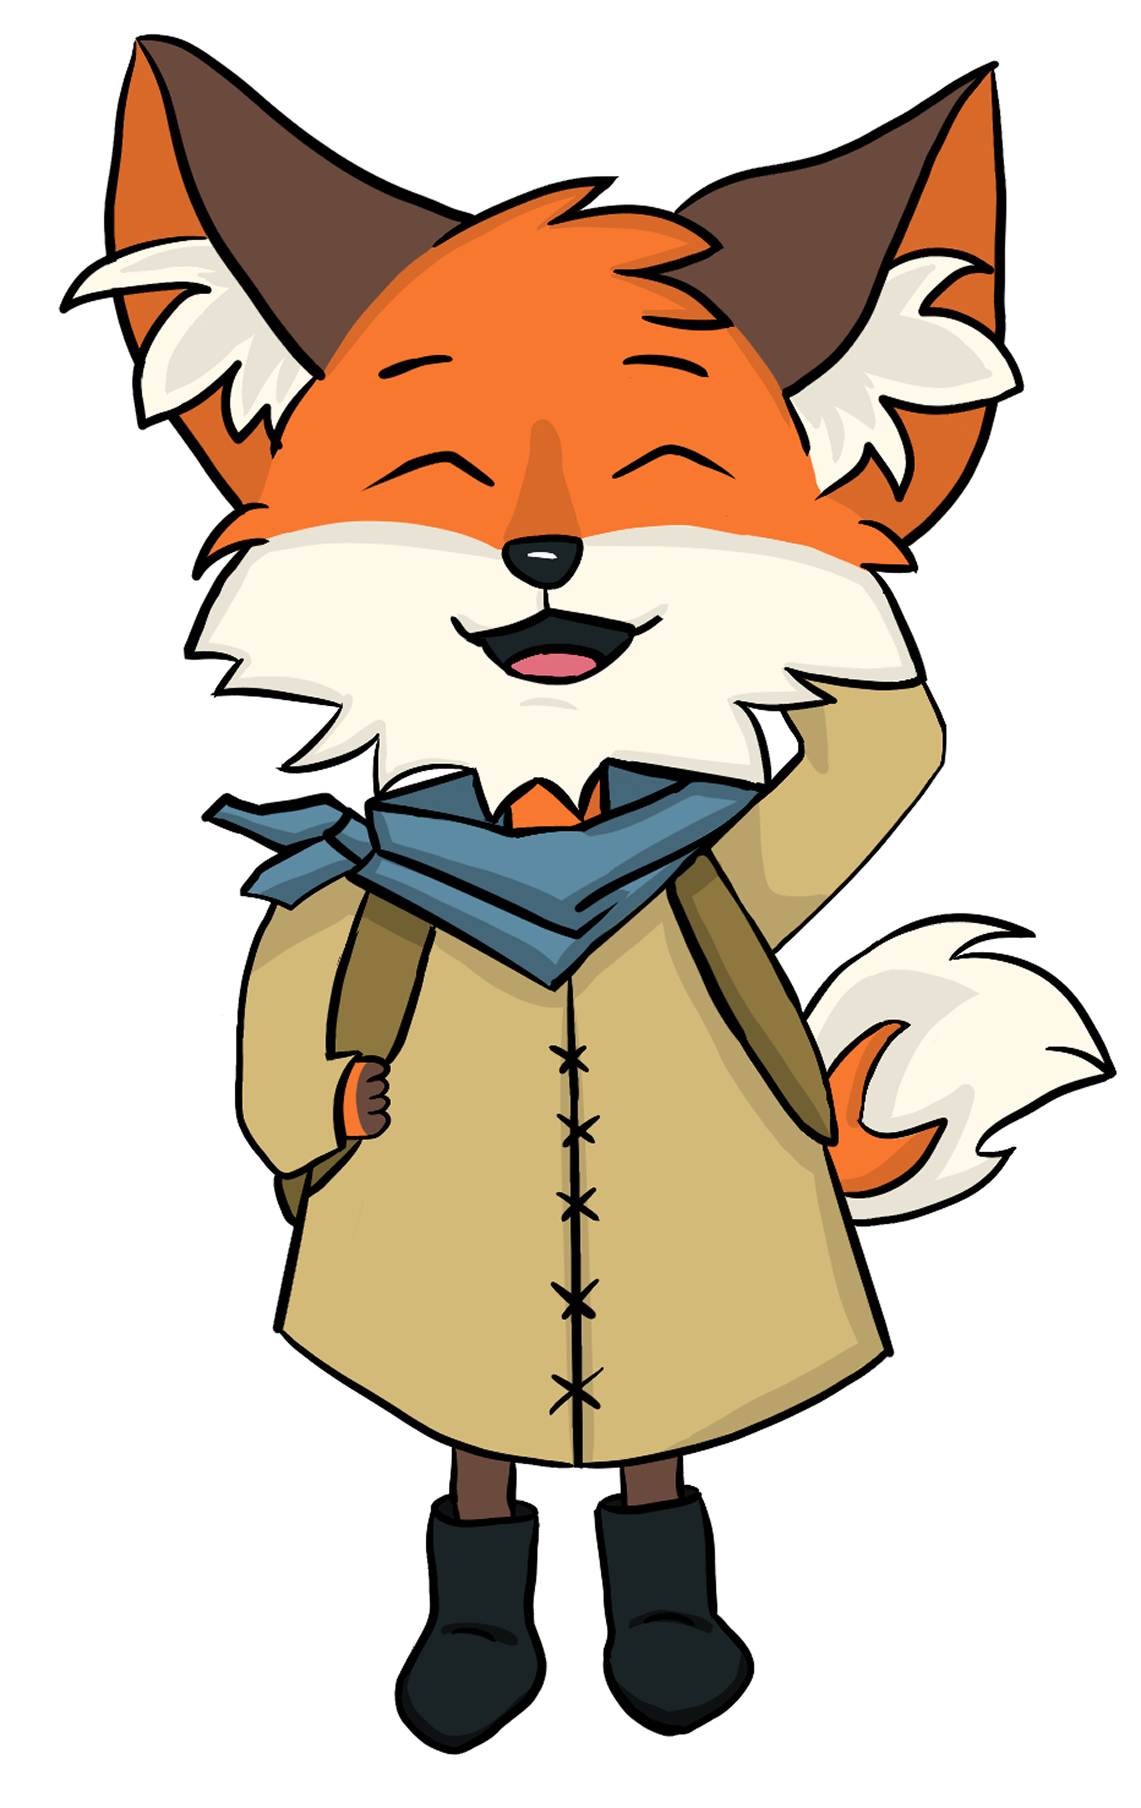
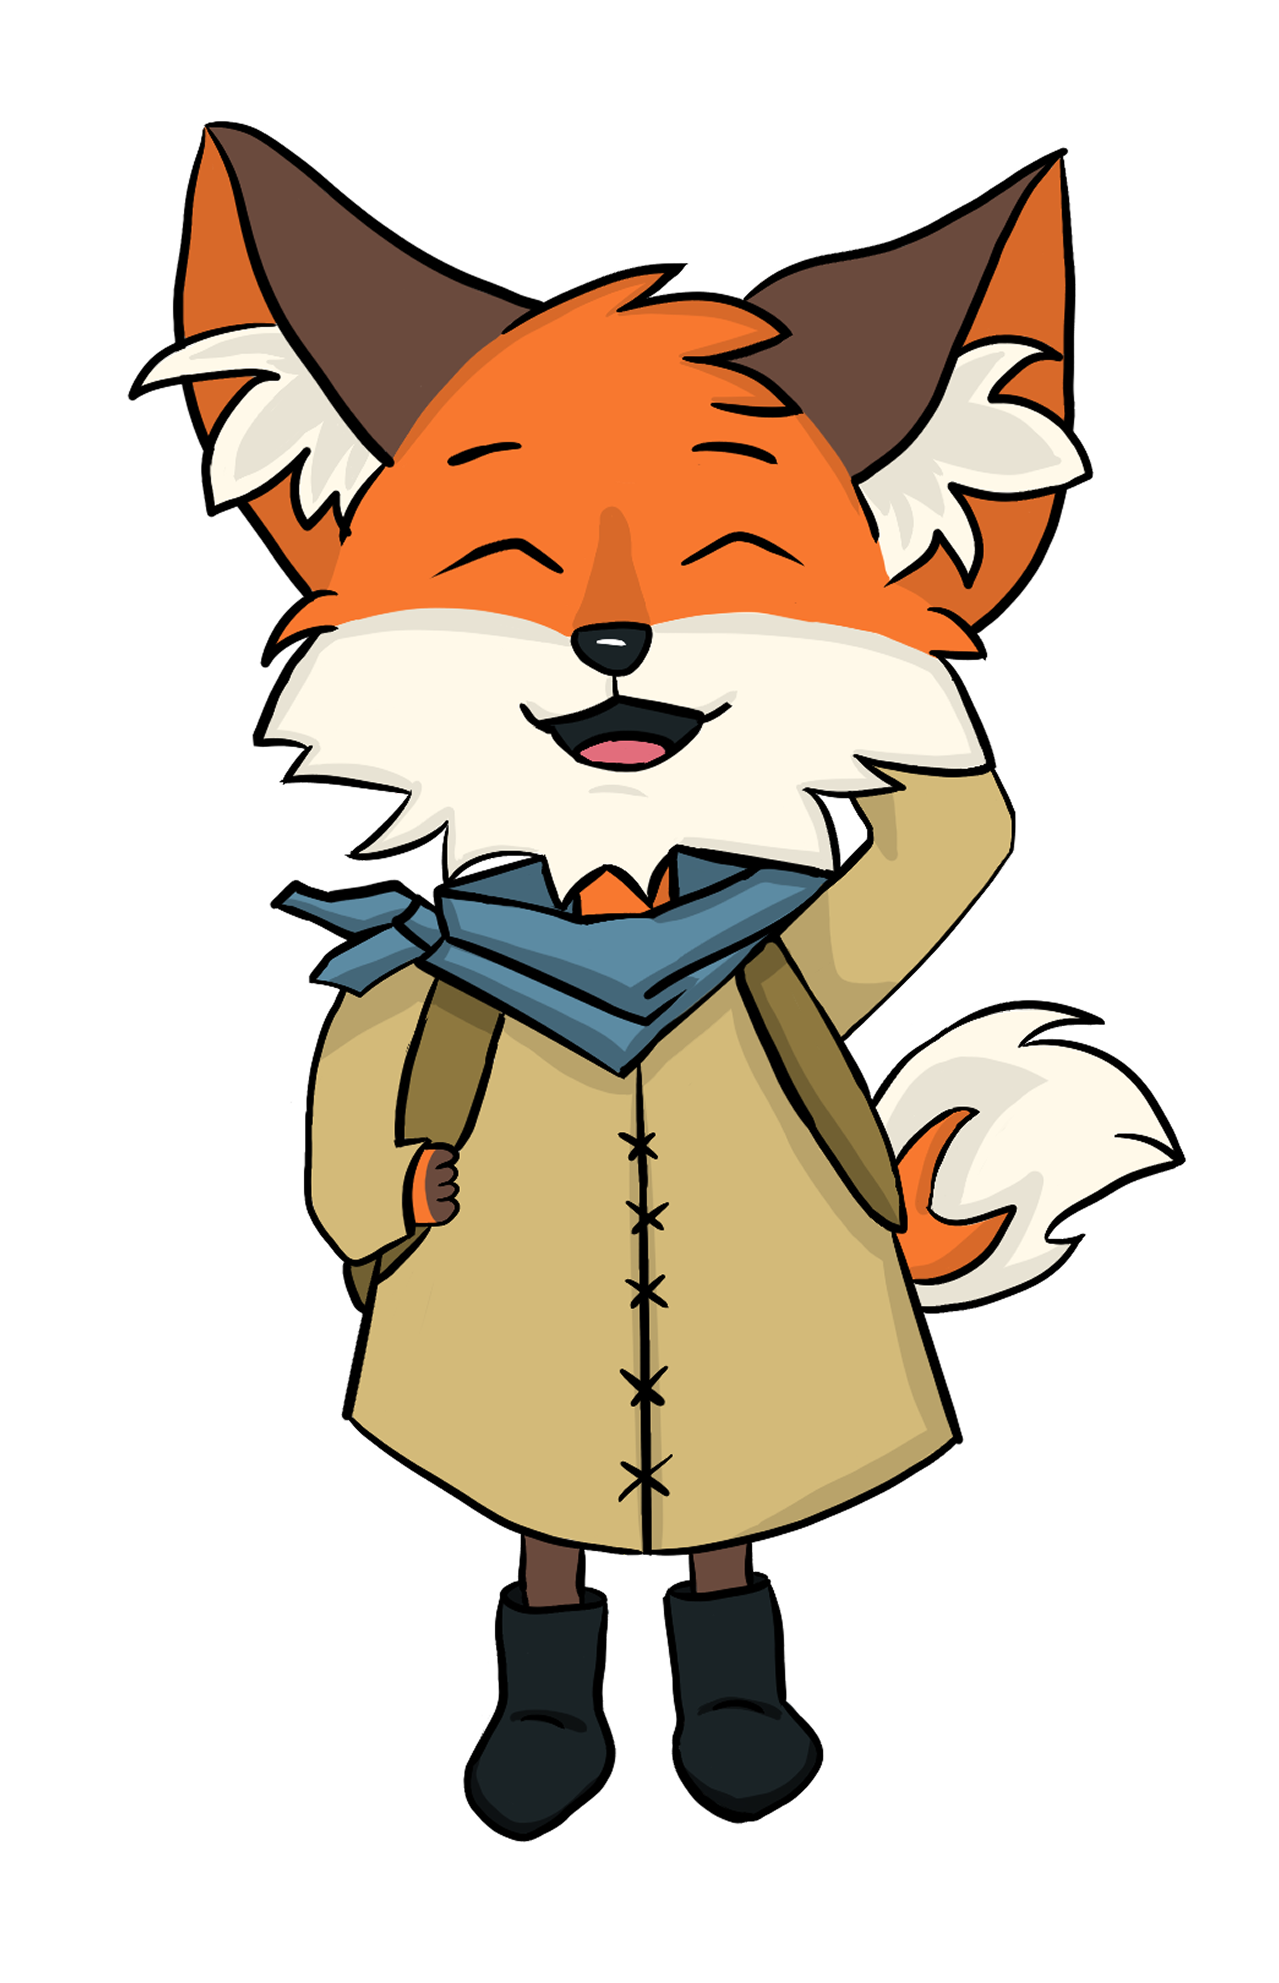
Image Fix

Changed region(s): [[0.0307, 0.0, 0.9816, 0.9912]]

diff --git a/src/app/(pages)/first-task/page.js b/src/app/(pages)/first-task/page.js
@@ -13,37 +13,37 @@ export default function NarrativePage() {
     // Before here, there should be some effects looks like interrupted from something.
       characterName: 'Fen',
       paragraphText: 'There’s not much time, so I’ll make this quick: To prevent your world from reliving the past, you must find the first clue.',
-      bgImage: '/bc-1.png',
+      bgImage: '/bc-rb.png',
       characterImageSrc: '/fen/fen-uu.png',
     },
     {
       characterName: 'Fen',
       paragraphText: 'Your first mission involves finding the location on campus that fulfills this tricky riddle: ',
-      bgImage: '/bc-1.png',
+      bgImage: '/bc-rb.png',
       characterImageSrc: '/fen/fen-e.png',
     },
     {
       characterName: 'Fen',
       paragraphText: '“I hold many worlds yet never leave my place. Pages turn within me, but I never show my face. What am I?”',
-      bgImage: '/bc-1.png',
+      bgImage: '/bc-rb.png',
       characterImageSrc: '/fen/fen-e.png',
     },
     {
       characterName: 'Fen',
       paragraphText: 'Once you’ve determined the location, head there and begin searching for Instagram @account_names.',
-      bgImage: '/bc-1.png',
+      bgImage: '/bc-rb.png',
       characterImageSrc: '/fen/fen-d.png',
     },
     {
       characterName: 'Fen',
       paragraphText: ' Then, explore them on your personal device to determine which amongst the fake news is real. With each account found, you’ll be one step closer to saving your world. Best of luck!',
-      bgImage: '/bc-1.png',
+      bgImage: '/bc-rb.png',
       characterImageSrc: '/fen/fen-e.png',
     },
     {
       characterName: 'Fen',
       paragraphText: ' Then, explore them on your personal device to determine which amongst the fake news is real. With each account found, you’ll be one step closer to saving your world. Best of luck!',
-      bgImage: '/bc-1.png',
+      bgImage: '/bc-rb.png',
       characterImageSrc: '/fen/fen-e.png',
     },
   ]

diff --git a/src/app/(pages)/second-task/page.js b/src/app/(pages)/second-task/page.js
@@ -13,25 +13,25 @@ export default function NarrativePage() {
     // Before here, there should be some effects looks like interrupted from something.
       characterName: 'Fen',
       paragraphText: 'Congratulations! You’ve identified the real news source. Keep in mind moving forward, that not everything is as it seems....',
-      bgImage: '/bc-1.png',
+      bgImage: '/bc-l.png',
       characterImageSrc: '/fen/fen-c.png',
     },
     {
       characterName: 'Fen',
       paragraphText: 'Now, you must find the next on-campus location using this hint: ',
-      bgImage: '/bc-1.png',
+      bgImage: '/bc-l.png',
       characterImageSrc: '/fen/fen-d.png',
     },
     {
       characterName: 'Fen',
       paragraphText: ' "I’m a path that’s painted bright, With walls that tell stories through art and light. Every step you take, a new scene unfolds, But stay too long, and the pictures grow cold. What am I?"',
-      bgImage: '/bc-1.png',
+      bgImage: '/bc-l.png',
       characterImageSrc: '/fen/fen-e.png',
     },
     {
       characterName: 'Fen',
       paragraphText: ' "I’m a path that’s painted bright, With walls that tell stories through art and light. Every step you take, a new scene unfolds, But stay too long, and the pictures grow cold. What am I?"',
-      bgImage: '/bc-1.png',
+      bgImage: '/bc-l.png',
       characterImageSrc: '/fen/fen-e.png',
     },
   ]

diff --git a/src/app/(pages)/fourth-task/page.js b/src/app/(pages)/fourth-task/page.js
@@ -13,25 +13,25 @@ export default function NarrativePage() {
     // Before here, there should be some effects looks like interrupted from something.
       characterName: 'Fen',
       paragraphText: 'Great job! You’ve succeeded in temporarily restoring the balance, and seen a glimpse of how balance can ....',
-      bgImage: '/bc-1.png',
+      bgImage: '/bc-c.png',
       characterImageSrc: '/fen/fen-e.png',
     },
     {
       characterName: 'Fen',
       paragraphText: 'Oh no.... we’re breaking up....',
-      bgImage: '/bc-1.png',
+      bgImage: '/bc-c.png',
       characterImageSrc: '/fen/fen-s.png',
     },
     {
       characterName: 'Fen',
       paragraphText: 'The shadow... the Enigma.... It’s here... There’s not much time... Remember everything you’ve learned thus far... Head to the entrance of the forest behind the college... ',
-      bgImage: '/bc-1.png',
+      bgImage: '/bc-c.png',
       characterImageSrc: '/fen/fen-uu.png',
     },
     {
       characterName: 'Fen',
       paragraphText: 'The shadow... the Enigma.... It’s here... There’s not much time... Remember everything you’ve learned thus far... Head to the entrance of the forest behind the college... ',
-      bgImage: '/bc-1.png',
+      bgImage: '/bc-c.png',
       characterImageSrc: '/fen/fen-uu.png',
     },
   ]

diff --git a/src/app/(pages)/second-task/completed/page.js b/src/app/(pages)/second-task/completed/page.js
@@ -13,13 +13,13 @@ export default function NarrativePage() {
     // Before here, there should be some effects looks like interrupted from something.
       characterName: 'Fen',
       paragraphText: 'Excellent work! You’ve discovered the correct translation. In turn, you now know what fate this darkness will unleash upon your world. ',
-      bgImage: '/bc-1.png',
+      bgImage: '/bc-p.png',
       characterImageSrc: '/fen/fen-thumb.png',
     },
     {
       characterName: 'Fen',
       paragraphText: 'To continue your efforts to prevent your world from experiencing the same end as mine, head to the cafeteria and locate a QR code.',
-      bgImage: '/bc-1.png',
+      bgImage: '/bc-p.png',
       characterImageSrc: '/fen/fen-d.png',
     },
   ]

diff --git a/src/app/(pages)/second-task/pink-hallway/page.js b/src/app/(pages)/second-task/pink-hallway/page.js
@@ -13,13 +13,13 @@ export default function NarrativePage() {
     // Before here, there should be some effects looks like interrupted from something.
       characterName: 'Fen',
       paragraphText: 'In this hallway, there are several hidden multi-linguistic clues. But which is the right one?',
-      bgImage: '/bc-1.png',
+      bgImage: '/bc-p.png',
       characterImageSrc: '/fen/fen-e.png',
     },
     {
       characterName: 'Fen',
       paragraphText: 'With your help, this next task involves translating and determining which phrase is the direct translation of the word: “Koyaanisqatsi”.',
-      bgImage: '/bc-1.png',
+      bgImage: '/bc-p.png',
       characterImageSrc: '/fen/fen-c.png',
     },
   ]

diff --git a/src/components/template.js b/src/components/template.js
@@ -20,11 +20,11 @@ export default function Template({
           {/* Character Image - Dynamic based on characterName */}
           {characterImageSrc && (
             <Image
-              className="absolute bottom-52"
+              className="absolute bottom-48 char-img"
               src={characterImageSrc}
               alt={characterName}
-              width={230}
-              height={230}
+              width={270}
+              height={270}
             />
           )}
 

diff --git a/src/app/(pages)/third-task/page.js b/src/app/(pages)/third-task/page.js
@@ -13,7 +13,7 @@ export default function NarrativePage() {
     // Before here, there should be some effects looks like interrupted from something.
       characterName: 'Fen',
       paragraphText: 'With the knowledge acquired from the previous task, it’s time to put it into practice. Complete this balance game to proceed to the next clue. ',
-      bgImage: '/bc-1.png',
+      bgImage: '/bc-c.png',
       characterImageSrc: '/fen/fen-e.png',
     },
   ]

diff --git a/src/app/globals.css b/src/app/globals.css
@@ -76,3 +76,8 @@ body {
   left: 50%;
   transform: translate(-50%, -50%);
 }
+
+.char-img {
+  transform: translate(-50%, 0);
+  left: 50%;
+}
